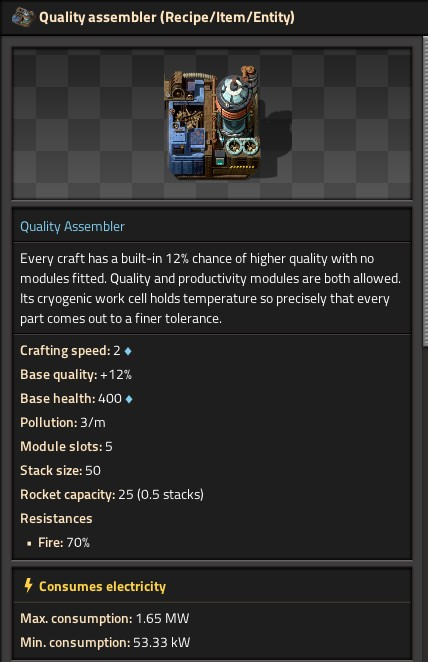
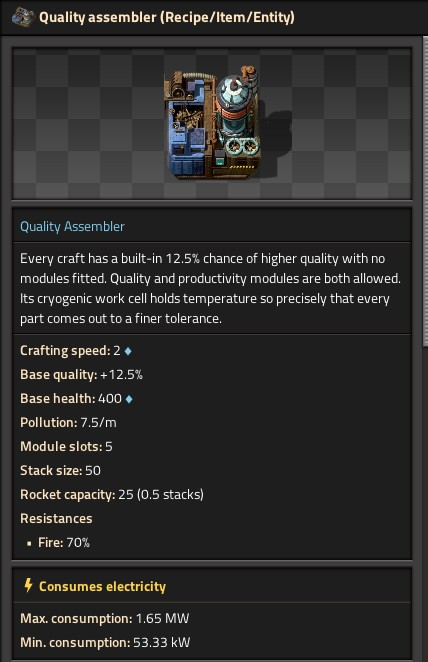
feat(quality-assembler): built-in quality 12.5% and pollution 7.5
The owner's two balance calls, made together with quality-recycler's so
the pair keeps one figure: effect_receiver.base_effect.quality 0.12 ->
0.125 and emissions_per_minute 3 -> 7.5, above the cryogenic plant's and
the foundry's 6. Read back from the running engine: 0.125 with no modules,
0.250 with five quality module 3s, and five speed module 3s now cancel the
built-in quality to exactly zero.

Every place that stated the old figures follows: README, locale, the
mod-browser line, the open changelog entry, the registers and CLAUDE.md.
The Factoriopedia gallery card was re-shot from the game; the owner dropped
the close-up, so the gallery is three shots. The README also gains the
"Check my other mods" section every mod in the repo now carries.

Changed region(s): [[0.4252, 0.3625, 0.8808, 0.423], [0.1822, 0.6344, 0.2734, 0.6647], [0.2734, 0.5438, 0.3341, 0.574]]

diff --git a/quality-assembler/.ai-support/decisions.md b/quality-assembler/.ai-support/decisions.md
@@ -57,9 +57,10 @@ mod touches — checked against `doc-html/auxiliary/mod-structure.html` for `qua
 
 The repo owner's calls, 2026-09-13, from three options each.
 
-- **Built-in quality, no modules needed**: `effect_receiver.base_effect.quality = 0.12` on the
-  entity prototype. The same number `quality-recycler` carries, deliberately — the two machines
-  are a matched pair and a player should not have to remember two figures.
+- **Built-in quality, no modules needed**: `effect_receiver.base_effect.quality = 0.125` on the
+  entity prototype — the owner's call of 2026-09-13, raised from the 0.12 the prototype was
+  written at. The same number `quality-recycler` carries, deliberately — the two machines are a
+  matched pair and a player should not have to remember two figures; both moved together.
 - **Crafting speed 2** — the electromagnetic plant's, and **1.6x** the assembling machine 3's
   1.25.
 - **Five module slots** — the electromagnetic plant's, against the assembling machine 3's four.
@@ -87,34 +88,38 @@ electromagnetic plant (the tier this joins). Both read out of the game's own dat
 | `energy_usage` | **1600kW** | 375kW | 2000kW |
 | kW per unit of speed | **800** | 300 | 1000 |
 | `module_slots` | **5** | 4 | 5 |
-| free bonus | 12% quality | none | +50% productivity |
+| free bonus | 12.5% quality | none | +50% productivity |
 | `collision_box` | **1.2 (3x3)** | 1.2 (3x3) | 1.7 (4x4) |
 | `max_health` | **400** | 400 | 350 |
-| pollution/min | **3** | 2 | 4 |
+| pollution/min | **7.5** | 2 | 4 |
 
 **Electricity is priced by the free bonus**, exactly as it was for `quality-recycler`. Per unit
 of crafting speed the assembling machine 3 pays 300 kW, the vanilla recycler 360, the foundry
 625, the cryogenic plant 750 and the electromagnetic plant 1000 — the plant's free +50%
-productivity is what the extra buys. A free 12% quality is worth five normal quality module 3s
+productivity is what the extra buys. A free 12.5% quality is worth five normal quality module 3s
 (0.025 each, `data/quality/prototypes/item.lua`), so this machine sits where the recycler sits:
 **800 kW per unit of speed, so 1600 kW at speed 2.** Per item crafted that is 2.7x an assembling
 machine 3's electricity (1600/2 against 375/1.25). Drain is the default thirtieth.
 
 **Read back from the running engine, 2026-09-13, in both configurations** (the screenshot
-harness's `report` group, Space Age on and then disabled): with no modules `crafting_speed`
-2.000 and `effects.quality` 0.1200; with five quality module 3s quality **0.245** and speed
-1.500 (their −5% each); with five productivity module 3s productivity 0.50, speed 0.500,
-consumption +400% and quality still 0.12; with five speed module 3s speed **7.000** and quality
-**0** — five of them take −2.5% each, 0.125 in all, and cancel the built-in 0.12 exactly, a
-number worth knowing before anyone calls the machine a pure speed upgrade. `can_fast_replace`
+harness's `report` group, Space Age on and then disabled, while the prototype still said 0.12):
+with no modules `crafting_speed` 2.000 and `effects.quality` 0.1200; with five quality module 3s
+quality **0.245** and speed 1.500 (their −5% each); with five productivity module 3s
+productivity 0.50, speed 0.500, consumption +400% and quality unchanged; with five speed module
+3s speed **7.000** and quality **0** — five of them take −2.5% each, 0.125 in all, which at the
+present 0.125 cancels the built-in quality to exactly zero, a number worth knowing before anyone
+calls the machine a pure speed upgrade. Re-read after the raise: 0.125 with no modules, 0.250
+with five quality module 3s. `can_fast_replace`
 returns true over an assembling machine 3 and an assembling machine 2. Beside it an assembling
 machine 3 with four quality module 3s reads 0.10 at speed 1.000. The two configurations report
 identical machine numbers and their own recipe and technology (below).
 
-**`max_health` 400 and `emissions_per_minute` 3**, chosen 2026-09-13 when the prototype was
-written: the health is the assembling machine 3's and the recycler's; the pollution sits between
-the assembling machine 3's 2 and the electromagnetic plant's 4, which is where 1.6x an
-assembler 3's work at 800 kW per unit of speed puts it.
+**`max_health` 400, and `emissions_per_minute` 7.5 — the owner's call of 2026-09-13**, on both
+this machine and `quality-recycler` at once. The prototype was written at 3 (between the
+assembling machine 3's 2 and the electromagnetic plant's 4, where 1.6x an assembler 3's work at
+800 kW per unit of speed put it); the owner raised the pair to 7.5, above the cryogenic plant's
+and the foundry's 6, so the free quality is paid for in pollution as well as in electricity. The
+health is the assembling machine 3's and the recycler's.
 
 ### The recipe
 
@@ -317,7 +322,7 @@ split in the paint-over, the object-ID visibility pass, `cyl()` making a disc ra
 `entity.lua` differs in three things, and every one of them loads clean when got wrong on the
 other track:
 
-- **`quality = 1.2`** where main has `0.12` — quality effect values are ten times larger on 2.0,
+- **`quality = 1.25`** where main has `0.125` — quality effect values are ten times larger on 2.0,
   which `quality-recycler` learned first.
 - **The connector is `circuit_connector_definitions["assembling-machine"]`**, a data-stage
   global. `__base__/prototypes/entity/assembler-pictures.lua`, which main requires it from, is a

diff --git a/quality-assembler/README.md b/quality-assembler/README.md
@@ -2,33 +2,26 @@
 
 **An assembling machine with quality built right in.**
 
-A 3x3 assembling machine that crafts 60% faster than an assembling machine 3. Every result
-has a 12% chance of coming out at a higher quality, with no modules fitted. Quality modules
-stack on top of that. It has five module slots, allows all module effects including
-productivity, and handles fluid recipes with connections on the north and south sides.
+A 3x3 assembling machine that crafts faster than an assembling machine 3 with 12.5% built-in quality.
+It has five module slots, allows all module effects including productivity.
 
 ### Compared with an assembling machine 3
 
 | | Quality Assembler | Assembling machine 3 |
 |---|---|---|
 | Crafting speed | 2 | 1.25 |
-| Quality chance | 12% | 0% |
+| Quality chance | 12.5% | 0% |
 | Module slots | 5 | 4 |
 | Power | 1.6 MW | 375 kW |
-| Pollution | 3/min | 2/min |
+| Pollution | 7.5/min | 2/min |
 | Size | 3x3 | 3x3 |
 
 ## Getting it
 
-With Space Age, the technology "Quality assembly" unlocks after Cryogenic science pack and
-Quality module 3. Research costs 500 units of all ten science packs (60 s each). Recipe:
-1 assembling machine 3, 2 quality module 3, 20 lithium plate, 20 processing unit,
-10 superconductor.
+With Space Age, the technology "Quality Assembly" unlocks after Cryogenic science pack at Aquilo.
 
-Without Space Age, it unlocks after Quality module 3, Utility science pack and Space science
-pack. Research costs 500 units of the six base packs (60 s each). Recipe: 1 assembling
-machine 3, 2 quality module 3, 20 low density structure, 10 electric engine unit,
-20 processing unit.
+Without Space Age, it unlocks after Quality module 3 with Utility Science and Space Science
+pack.
 
 ## Using it
 
@@ -37,7 +30,7 @@ it straight in over an assembling machine 3, keeping the recipe, modules, insert
 in place.
 
 All module effects are allowed, including productivity. Five quality module 3s add another
-12.5% quality chance on top of the built-in 12%.
+12.5% quality chance on top of the built-in 12.5%.
 
 It crafts everything an assembling machine 3 can, including fluid recipes.
 
@@ -47,6 +40,13 @@ Requires the Quality mod (part of Space Age) on Factorio 2.1. Space Age itself i
 the mod works with Quality alone. A Factorio 2.0 build is released separately.
 
 The companion mod Quality Recycler (same author) does the same for recycling.
+
+## Check my other mods
+
+- [Pure Modules](https://mods.factorio.com/mod/pure-modules-realk) — Stronger end-game tiers of modules with reduced penalties. They require a powerful new beacon to work. Optional Quality and Space Age support.
+- [Upcycler Planner](https://mods.factorio.com/mod/upcycler-planner) — Choose an item and a target quality, the mod designs and gives you an entirely configurable upcycling loop blueprint.
+- [Quality Recycler](https://mods.factorio.com/mod/quality-recycler) — A new recycler with quality built right in.
+- [Extra Qualities](https://mods.factorio.com/mod/extra-qualities) — Adds two new quality tiers above legendary: Mythic and Celestial. Also reworks vanilla quality progression so Space Age fits well with 6 quality tiers.
 
 ## AI-Assisted Development
 

diff --git a/quality-assembler/.ai-support/deferred.md b/quality-assembler/.ai-support/deferred.md
@@ -74,9 +74,10 @@ reasoned placement between two vanilla machines, in the same method `quality-rec
 that mod's own balance is still a guess too. Two things specific to this machine are worth
 watching in play:
 
-- **A free 12% quality is worth far more on an assembler than on a recycler**, because an
+- **A free 12.5% quality is worth far more on an assembler than on a recycler**, because an
   assembler crafts a far larger share of everything a base makes. The owner was offered 8% for
-  that reason and chose to keep the pair matched at 12%. If it plays too strong, this is the
+  that reason and chose to keep the pair matched, first at 12% and then at 12.5% (2026-09-13,
+  with the pollution raised to 7.5 on both). If it plays too strong, this is the
   number to move, and moving it costs nothing but a line.
 - **Fast replacement makes adoption total.** Because it swaps in over every assembling machine
   3 with one upgrade planner, the machine is either built everywhere or nowhere; there is no
@@ -87,11 +88,11 @@ watching in play:
 - **What the engine confirmed and what it cannot** (2026-09-13, `decisions.md` → *Read back
   from the running engine*): the numbers are exactly as declared in both configurations, fast
   replacement works over both vanilla assemblers, and the two technology gates read as
-  written. What no probe can settle is whether 12% plus five module slots at crafting speed 2
+  written. What no probe can settle is whether 12.5% plus five module slots at crafting speed 2
   is *fair*: with five speed module 3s the machine is a speed-7 assembler whose quality bonus
-  is cancelled to zero, and with five quality module 3s a 24.5% one — both far past an
-  assembling machine 3 (speed 3.75 or 10%). The 1.6 MW and the recipe are the price. Play
-  decides; the number to move is `quality = 0.12` in `entity.lua`, one line.
+  is cancelled to zero, and with five quality module 3s a 25% one — both far past an
+  assembling machine 3 (speed 3.75 or 10%). The 1.6 MW, the 7.5 pollution and the recipe are
+  the price. Play decides; the number to move is `quality = 0.125` in `entity.lua`, one line.
 
 ## Release and tracks
 

diff --git a/quality-assembler/CLAUDE.md b/quality-assembler/CLAUDE.md
@@ -5,7 +5,7 @@ what is specific to this mod. `package.ignore` keeps it out of the shipped zip.
 
 ## What the mod is
 
-A new assembling machine: **12% base quality chance built in (no modules needed), crafting speed
+A new assembling machine: **12.5% base quality chance built in (no modules needed), crafting speed
 2, five module slots, a 3x3 footprint, fast-replaceable with an assembling machine 3, unlocked
 after Aquilo with Space Age and after the rocket without it.** The verified mechanism and how it
 compares to its two reference machines are in `.ai-support/decisions.md`.
@@ -211,7 +211,7 @@ Full reasoning in `.ai-support/decisions.md`; these are the rules.
   2026-09-13.
 - Version starts at `0.1.0`, unpublished.
 - Dependencies and feature flags as above.
-- **The mechanic: `effect_receiver.base_effect.quality = 0.12`, `crafting_speed = 2`, five
+- **The mechanic: `effect_receiver.base_effect.quality = 0.125`, `crafting_speed = 2`, five
   module slots, 1600 kW, a 3x3 footprint** at `collision_box = {{-1.2,-1.2},{1.2,1.2}}`.
 - **Crafting categories are the assembling machine 3's exactly** — `crafting`,
   `advanced-crafting`, `crafting-with-fluid`. It does not take `electromagnetics`, `metallurgy`,
@@ -228,7 +228,8 @@ Full reasoning in `.ai-support/decisions.md`; these are the rules.
   half only, measured at 21% of the base sheet against AM3's 13.7% target.
 - **Built from scratch, not deep-copied from `assembling-machine-3`.** A deepcopy carries a
   working sound, a status light and a connector positioned for a different machine.
-- **Health 400, pollution 3, the recipe and the technology cost on both branches** — reasoning
+- **Health 400, pollution 7.5 (the owner's call, matched with the recycler), the recipe and the
+  technology cost on both branches** — reasoning
   in `.ai-support/decisions.md`.
 
 Sounds, a real remnant, the connector check and balance are open. See

diff --git a/quality-assembler/.ai-support/journal.md b/quality-assembler/.ai-support/journal.md
@@ -3,6 +3,18 @@
 Dated sessions, newest first. Append-only: an entry is history and is never edited once written,
 except to repair a moved file path.
 
+## 2026-09-13 (last) — the owner's two balance calls: 7.5 pollution, 12.5% quality
+
+Two numbers moved on the owner's word, on this machine and on `quality-recycler` together so the
+pair stays matched: `emissions_per_minute` from 3 to 7.5 (the recycler's from 4), above the
+cryogenic plant's and the foundry's 6, and the built-in quality from 0.12 to 0.125. Every place
+that stated the old figures was brought up — README, locale, the mod-browser line, the open
+changelog entry, the registers, both `CLAUDE.md`s and the repo's — and the Factoriopedia card in
+the gallery was re-shot, since it printed both. The recycler is published, so its change opened
+a `0.1.2` section and bumped its `info.json`; the release itself is the owner's to ask for. The
+2.0 forks of both `entity.lua` files take `quality = 1.25` and the pollution by hand at the next
+sync.
+
 ## 2026-09-13 (late) — verified in the running engine, both configurations
 
 The owner asked that everything work and be properly balanced with and without Space Age.

diff --git a/quality-assembler/.ai-support/quality-assembler-design.md b/quality-assembler/.ai-support/quality-assembler-design.md
@@ -24,7 +24,8 @@ model actually is, where it departs from the sections above, and what the engine
 ## Function & constraints
 
 Builds the same recipes an assembling machine 3 does, 60% faster, and everything it makes has a
-12% chance of coming out one quality tier higher with no modules fitted.
+12.5% chance of coming out one quality tier higher with no modules fitted (12% when the design
+was written; the owner raised the pair to 12.5% on 2026-09-13).
 
 | | |
 |---|---|
@@ -125,7 +126,7 @@ its exposed top deck. The grafted half quotes the cryogenic plant: bare insulate
 bundles, sealed vessels — hardware that looks recovered rather than manufactured.
 
 Its mechanical precedent is the **electromagnetic plant**, whose `effect_receiver =
-{ base_effect = { productivity = 0.5 }}` is the exact shape of this entity's `quality = 0.12`.
+{ base_effect = { productivity = 0.5 }}` is the exact shape of this entity's `quality = 0.125`.
 It is not the size or palette reference: it is 4x4 and it is a Space Age dark-hull machine.
 
 ## Silhouette
